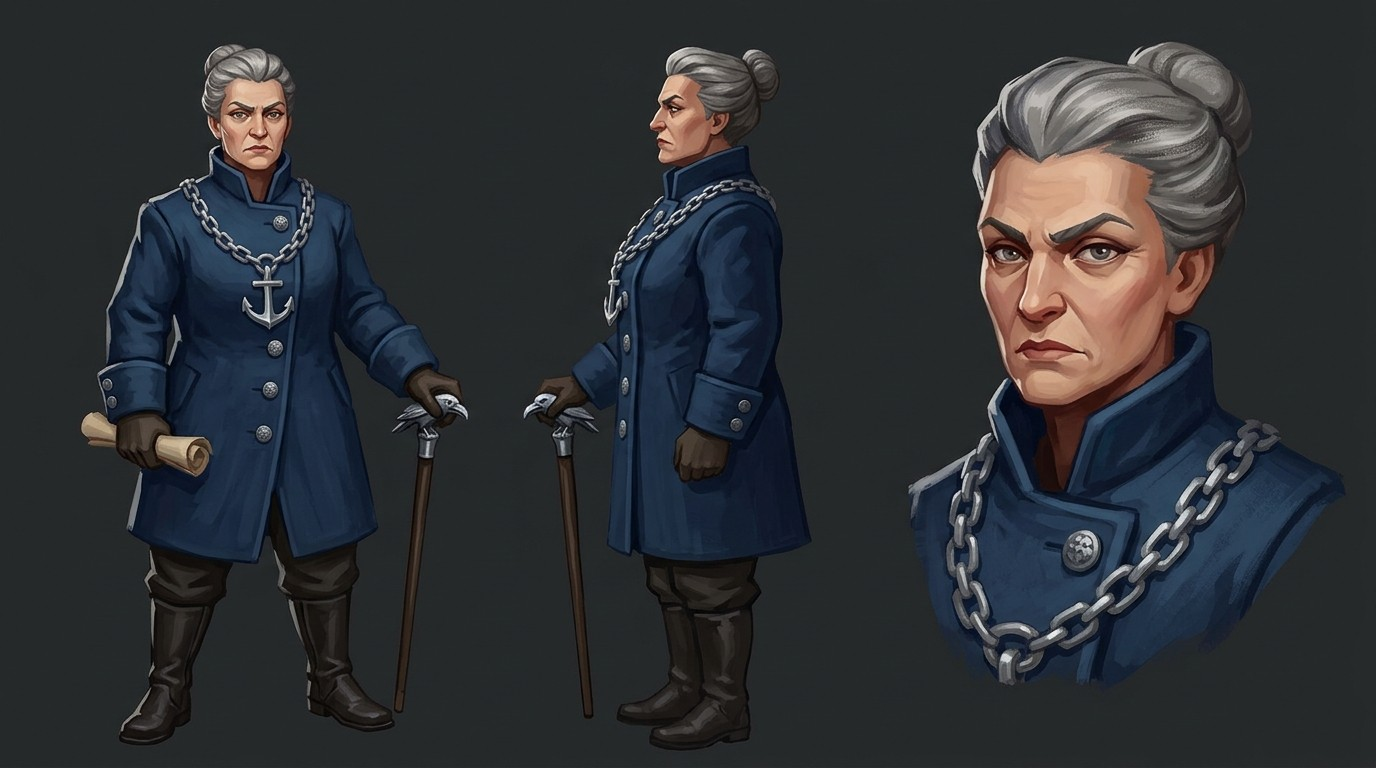
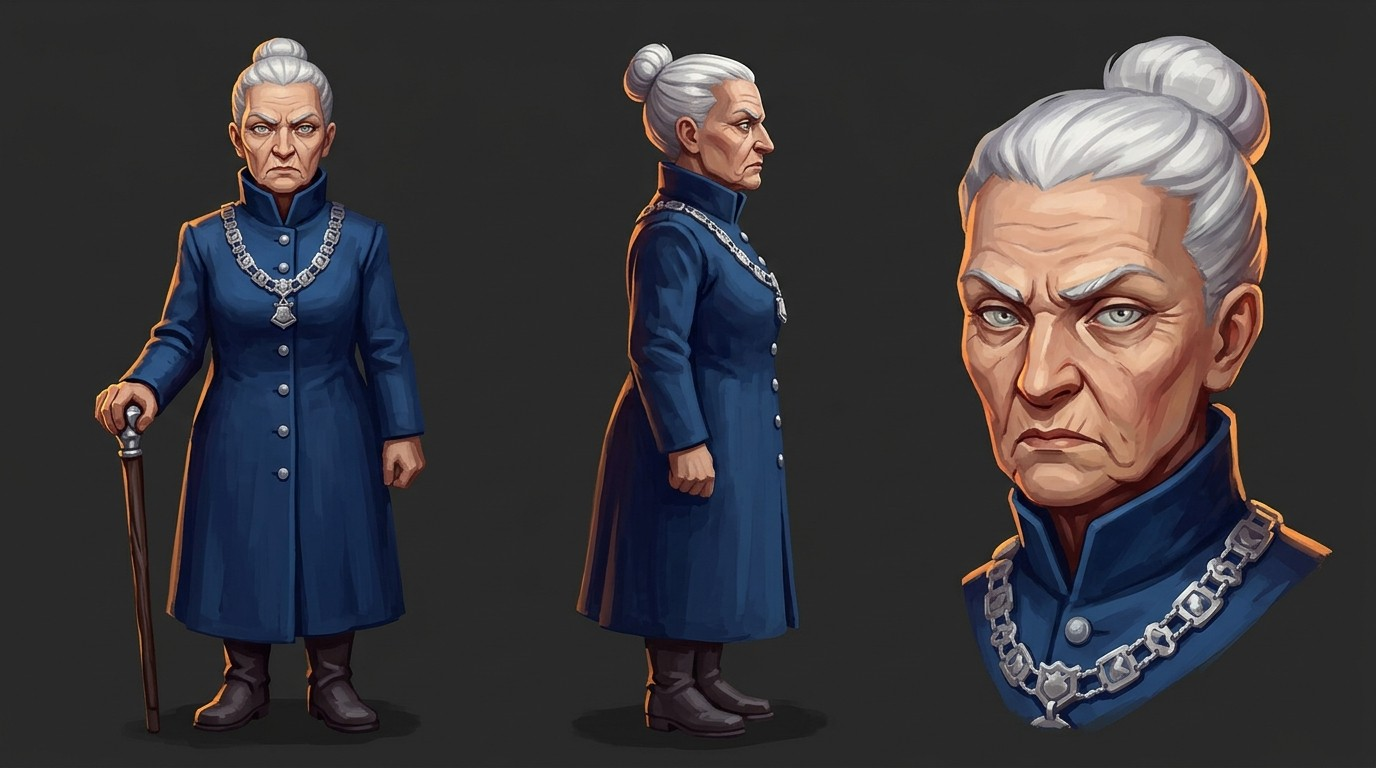
Chronicle level 7: the mayor repainted as a stern older lady
Claude-Session: https://claude.ai/code/session_01ATYH57jnXnDsQfoAHnRMyx

diff --git a/chronicle/painted/make/07.py b/chronicle/painted/make/07.py
@@ -108,7 +108,7 @@ L10=json.load(open('painted/10-ahm-dynasty.json')); L11=json.load(open('painted/
 L4=json.load(open('painted/04-cleansing-well.json')); L3=json.load(open('painted/03-first-moonwell.json')); L10=json.load(open('painted/10-ahm-dynasty.json'))
 cast={'lucien':L4['cast']['lucien'],'arthas':L4['cast']['arthas'],'cedric':L4['cast']['cedric'],'neris':L4['cast']['neris'],'valerys':L6['cast']['valerys'],
  'mara':L12['cast']['mara'],'aldraik':L3['cast']['aldraik'],'guard':L10['cast']['guard']}
-cast.update({'mayor':"the mayor of Cobh: a proud, sharp-featured woman in her fifties, grey hair in a tight bun, a dark blue coat with silver buttons and a heavy silver chain of office, a stern mouth",
+cast.update({'mayor':"the mayor of Cobh: an older lady in her late sixties, small and upright, deeply lined stern face, thin pressed lips, sharp pale eyes, silver-white hair in a severe tight bun, a high-collared dark blue coat with silver buttons and a heavy silver chain of office, a walking cane; strict, proud, unamused",
  'leify':"Leify, Lucien's old fling: a very beautiful young woman in her twenties, long wavy chestnut hair, green eyes, freckles, a tavern waitress's laced bodice and apron, a cool, unimpressed look",
  'caroline':"Caroline, Lucien's old girlfriend: a strikingly beautiful, elegant young woman, long sleek raven-black hair, dark eyes, a fitted deep-blue dress, a teasing, confident smile, far out of most men's league",
  'crackle':"Crackle, an eccentric young professor in his late twenties: very tall, slim and skinny with long limbs, a big shock of wild frizzy ginger hair standing up as if struck by lightning, a thin ginger moustache, a brass pince-nez on a chain, a long patched tweed coat with bulging pockets of brass instruments and copper wire, scorch marks on his sleeves, an eager, nervous, hopelessly-in-love face",
